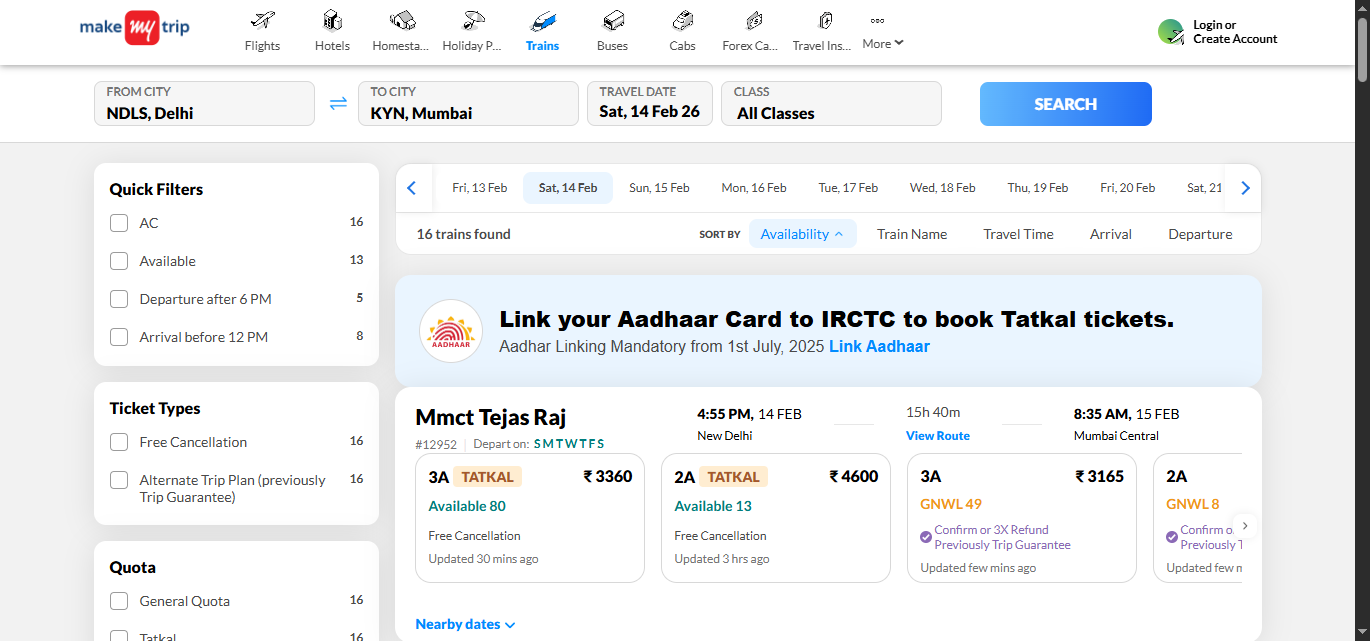
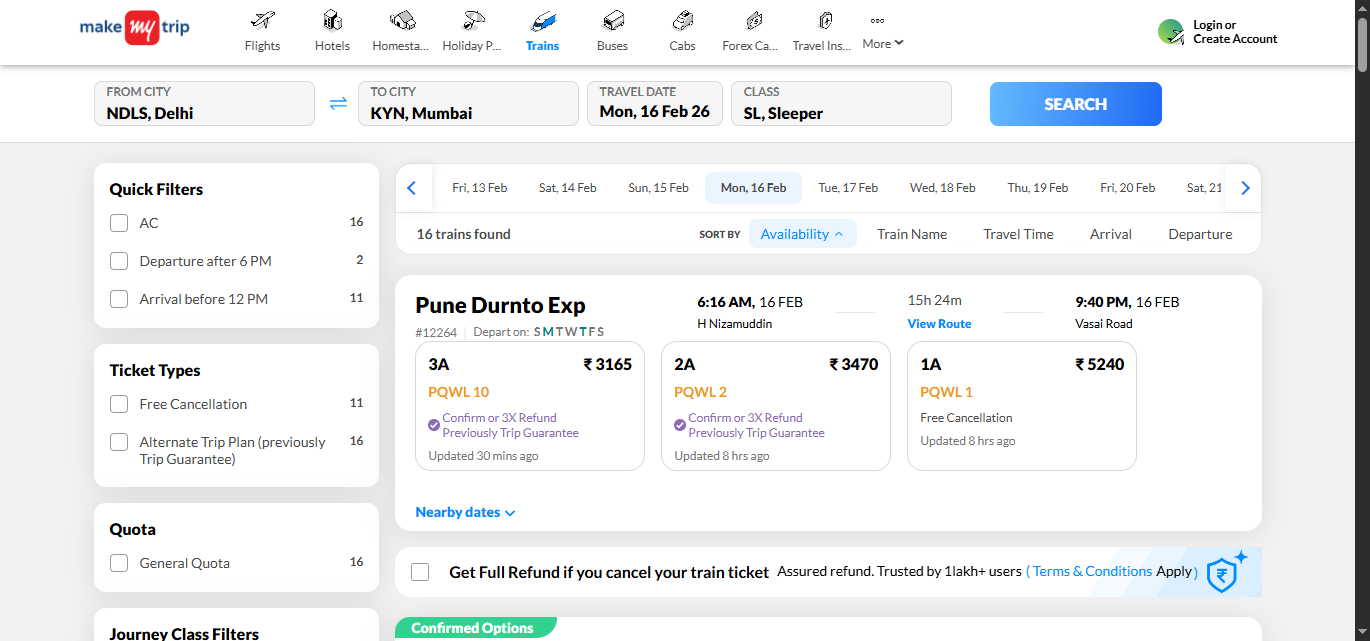
Did Date and Class

diff --git a/pages/trains_page.py b/pages/trains_page.py
@@ -18,7 +18,8 @@ class TrainsPage(BasePage):
     TO_INPUT = (By.ID, "toCity")
 
     ACTIVE_INPUT = (By.XPATH, "//input[@placeholder='From' or @placeholder='To']")
-
+    DATE_PICK=(By.CSS_SELECTOR, "div[aria-label='Mon Feb 16 2026']")
+    CLASS_PICK=(By.CSS_SELECTOR,"li[data-cy='SL']")
     SEARCH_BUTTON = (By.XPATH, "//a[@data-cy='submit']")
 
     def open_trains_tab(self):
@@ -45,7 +46,7 @@ class TrainsPage(BasePage):
         ))
 
         to_input.clear()
-        to_input.send_keys("Mumbai")
+        to_input.send_keys(city)
 
         mumbai_option = self.wait.until(EC.element_to_be_clickable(
             (By.XPATH, "//li[@role='option']//span[contains(text(),'Mumbai')]")
@@ -53,7 +54,12 @@ class TrainsPage(BasePage):
 
         self.driver.execute_script("arguments[0].click();", mumbai_option)
 
+    def date_pick(self):
+        self.click(self.DATE_PICK)
 
+    def class_pick(self):
+        class_picking=self.wait.until(EC.element_to_be_clickable(self.CLASS_PICK))
+        self.driver.execute_script("arguments[0].click();", class_picking)
 
     def close_popup_if_present(self):
         try:
@@ -71,26 +77,8 @@ class TrainsPage(BasePage):
             pass
         search_button = self.driver.find_element(By.XPATH, "//a[@data-cy='submit']")
         self.driver.execute_script("arguments[0].click();", search_button)
-    def date_picker(self):
-        departure = WebDriverWait(self.driver, 10).until(
-            EC.element_to_be_clickable((By.XPATH, "//input[@data-cy='departure']"))
-        )
-        departure.click()
-        select_date = WebDriverWait(self.driver, 10).until(
-            EC.element_to_be_clickable((By.XPATH, "//div[@class='DayPicker-Day' and text()='12']"))
-        )
-        select_date.click()
-        WebDriverWait(self.driver, 10).until(
-            EC.invisibility_of_element_located((By.XPATH, "//div[contains(@class,'dayPicker')]"))
-        )
 
-    def class_Select(self):
-            self.wait.until(
-                EC.element_to_be_clickable((By.ID, "travelClass"))
-            ).click()
-            self.wait.until(
-                EC.element_to_be_clickable((By.XPATH, "//li[@data-cy='SL']"))
-            ).click()
+
 
     def click_search(self):
         # Close calendar if open

diff --git a/tests/test_trains_search.py b/tests/test_trains_search.py
@@ -27,6 +27,8 @@ def test_train_search(driver):
     trains.open_trains_tab()
     trains.select_from_city("Delhi")
     trains.enter_to_city("Mumbai")
+    trains.date_pick()
+    trains.class_pick()
     trains.click_search()
     trains.capture_search_screenshot()
 

diff --git a/pages/trains_results.py b/pages/trains_results.py
@@ -18,7 +18,6 @@ class TrainResultPage(BasePage):
         By.XPATH,
         "//div[@data-testid='travel-time']"
     )
-
     def __init__(self, driver):
         super().__init__(driver)
 
